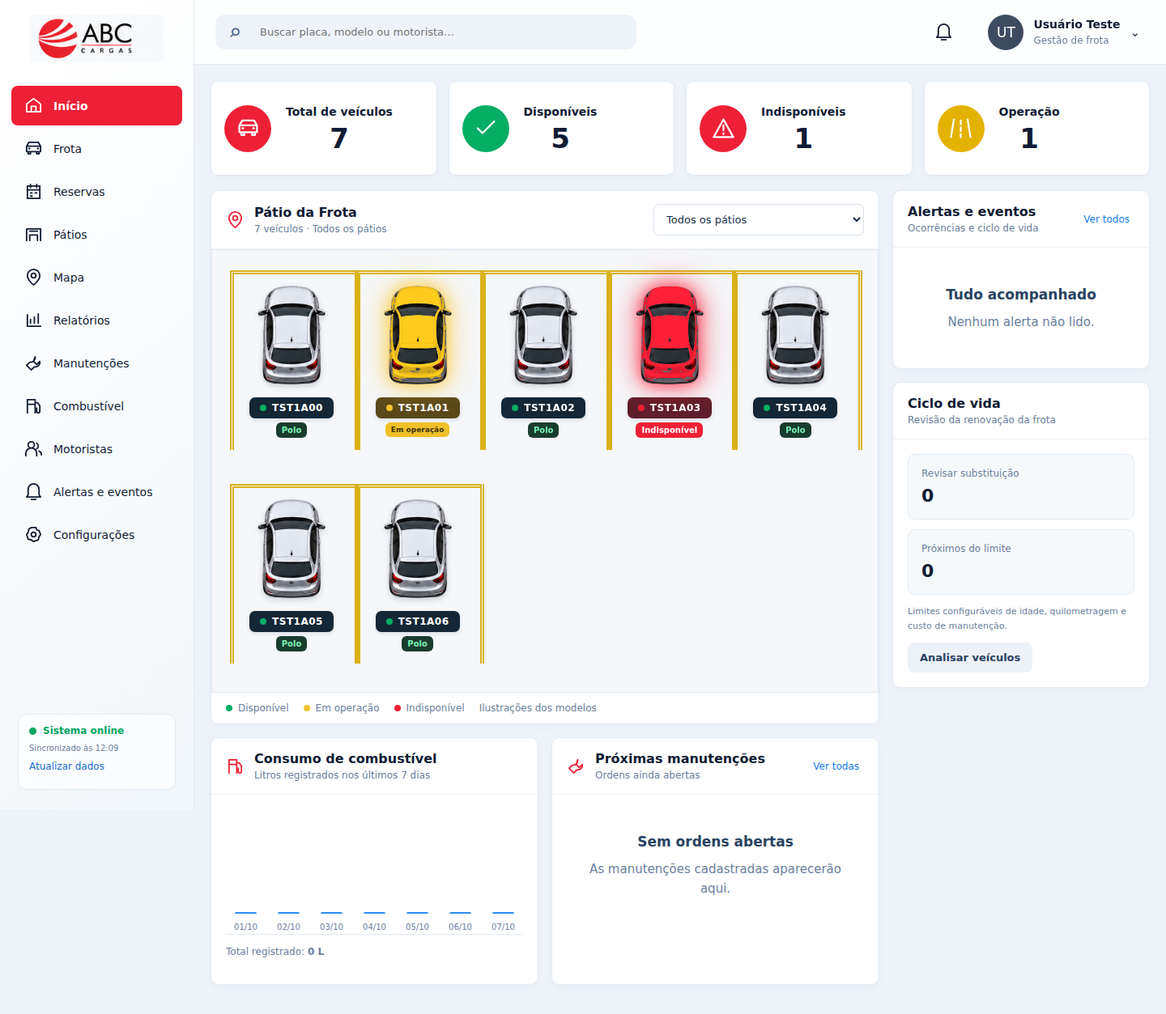
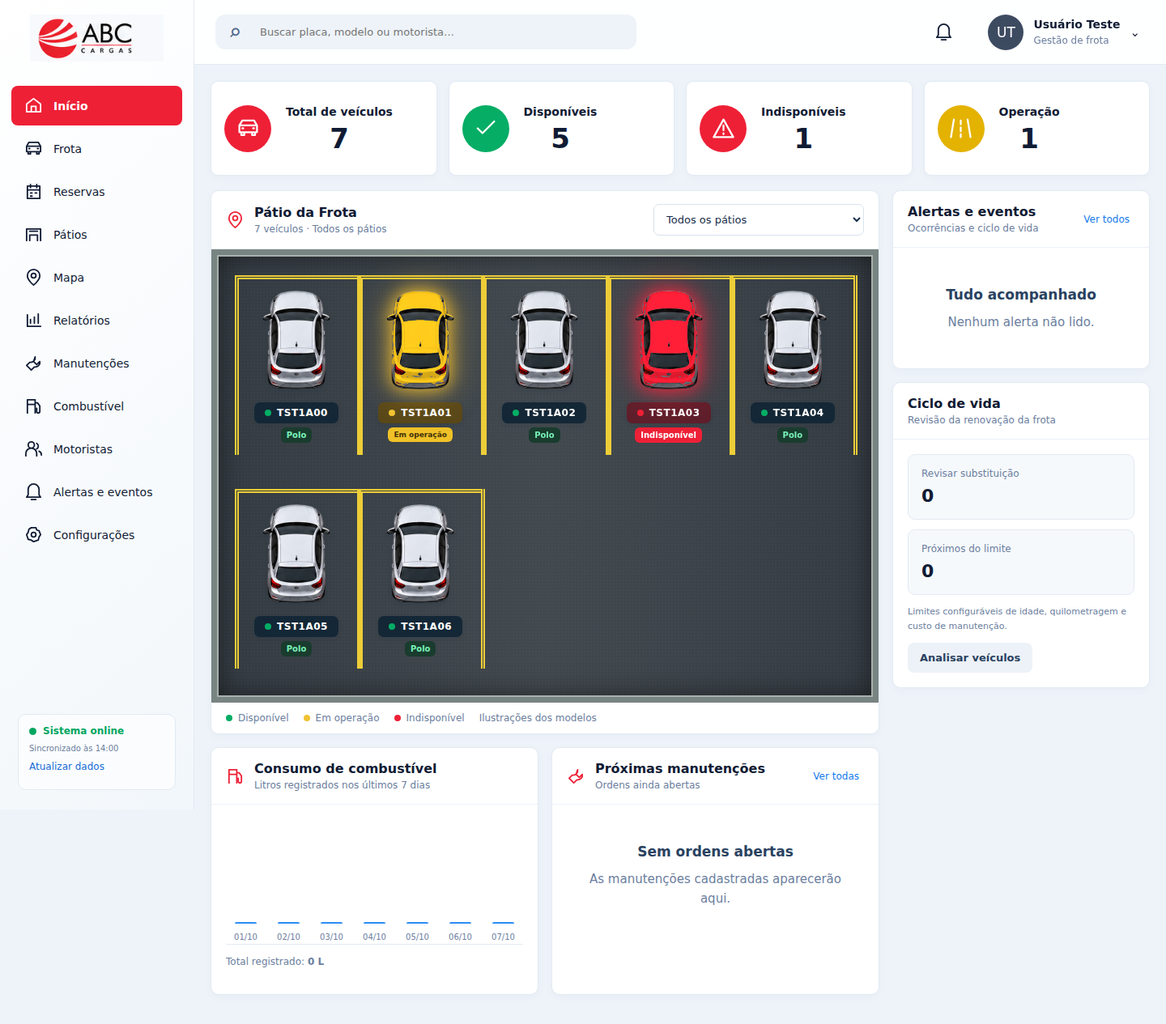
Patio_Dark_Alto_Contraste

diff --git a/abc-cargas-saas-real/public/app.js b/abc-cargas-saas-real/public/app.js
@@ -2,9 +2,11 @@ import {licenseState,licenseAlerts} from './license.js';
 import {createReservationUI} from './reservations.js';
 import {DEFAULT_POLICY,vehicleMetrics,fleetCounts,lifecycleAlerts} from './metrics.js';
 const $=id=>document.getElementById(id),esc=s=>String(s??'').replace(/[&<>"']/g,c=>({'&':'&amp;','<':'&lt;','>':'&gt;','"':'&quot;',"'":'&#39;'}[c]));
+let CONTRAST=false;
+function applyContrast(enabled){CONTRAST=!!enabled;document.documentElement.dataset.contrast=CONTRAST?'high':'normal';}
 let THEME='light';const systemTheme=window.matchMedia('(prefers-color-scheme: dark)');
 function applyTheme(mode){THEME=['light','dark','auto'].includes(mode)?mode:'light';document.documentElement.dataset.theme=THEME==='auto'?(systemTheme.matches?'dark':'light'):THEME;}
-function loadTheme(){let mode='light';try{mode=localStorage.getItem('abc-theme-'+USER.id)||'light';}catch{}applyTheme(mode);}
+function loadTheme(){let mode='light',contrast=false;try{mode=localStorage.getItem('abc-theme-'+USER.id)||'light';contrast=localStorage.getItem('abc-contrast-'+USER.id)==='high';}catch{}applyTheme(mode);applyContrast(contrast);}
 systemTheme.addEventListener('change',()=>{if(THEME==='auto')applyTheme('auto');});
 const clone=x=>structuredClone(x),uid=prefix=>prefix+'-'+crypto.randomUUID(),fmt=(n,d=0)=>Number(n||0).toLocaleString('pt-BR',{maximumFractionDigits:d}),money=n=>n===null||n===undefined?'Não informado':Number(n).toLocaleString('pt-BR',{style:'currency',currency:'BRL'}),day=s=>s?new Date(s+'T12:00:00').toLocaleDateString('pt-BR'):'Não informada',localDate=d=>[d.getFullYear(),String(d.getMonth()+1).padStart(2,'0'),String(d.getDate()).padStart(2,'0')].join('-'),today=()=>localDate(new Date()),plate=p=>String(p||'').replace(/[^a-z0-9]/gi,'').toUpperCase();
 let DB=null,USER=null,CATALOG=[],REVISION=0,SAVING=false,PAGE='dashboard',YARD='ALL',SEARCH='',MAP_VEHICLE='',VEHICLE_PHOTO=null,LAST_FOCUS=null,BOOT_BUSY=false,RESERVATIONS=[],WORKFLOW=[];
@@ -15,7 +17,7 @@ const canWrite=()=>USER&&['admin','manager'].includes(USER.role),allCatalog=()=>
 function toast(message){$('toast').textContent=message;$('toast').classList.add('show');clearTimeout(window.__toast);window.__toast=setTimeout(()=>$('toast').classList.remove('show'),4500)}
 function errorMessage(err){return err.message||'Não foi possível concluir a operação.'}
 async function api(path,options={}){if(location.protocol==='file:')throw new Error('Abra o sistema pelo endereço publicado no Render.');let response;try{response=await fetch(path,{credentials:'same-origin',headers:{'Content-Type':'application/json'},...options})}catch{throw new Error('Não foi possível conectar. Confira sua conexão e tente novamente.')}let data;try{data=await response.json()}catch{throw new Error('Resposta inválida do servidor. Atualize a publicação completa.')}if(!response.ok){if(response.status===401){showLogin(data.error);const err=new Error(data.error||'Sessão expirada.');err.auth=true;throw err}throw new Error(data.error||'Erro no servidor.')}return data}
-function showLogin(message=''){DB=null;USER=null;YARD='ALL';applyTheme('light');$('app').classList.add('hidden');$('authGate').classList.remove('hidden');$('authError').textContent=message;$('connectionMessage').textContent='Use o e-mail e a senha da sua conta.';closeModal()}
+function showLogin(message=''){DB=null;USER=null;YARD='ALL';applyTheme('light');applyContrast(false);$('app').classList.add('hidden');$('authGate').classList.remove('hidden');$('authError').textContent=message;$('connectionMessage').textContent='Use o e-mail e a senha da sua conta.';closeModal()}
 async function bootstrap(){if(BOOT_BUSY)return;BOOT_BUSY=true;try{const data=await api('/api/bootstrap');if(data.schemaVersion!==4)throw new Error('Atualize também os arquivos server e db no GitHub antes de usar esta versão.');DB=data.state;DB.settings.policy={...DEFAULT_POLICY,...DB.settings.policy};DB.settings.catalog||=[];const entering=!USER||USER.id!==data.user.id;USER=data.user;if(entering){YARD='ALL';loadTheme();}RESERVATIONS=data.reservations||[];WORKFLOW=data.vehicleWorkflow||[];CATALOG=data.catalog;REVISION=data.revision;if(YARD&&!['ALL','UNASSIGNED'].includes(YARD)&&!DB.yards.some(y=>y.id===YARD))YARD='ALL';$('authGate').classList.add('hidden');$('app').classList.remove('hidden');$('app').classList.toggle('readonly',USER.role==='viewer');$('userName').textContent=USER.name;$('avatar').textContent=USER.name.split(/\s+/).map(x=>x[0]).slice(0,2).join('').toUpperCase();syncTime();PAGE=location.hash.slice(1)||PAGE;if(!navItems.some(x=>x[0]===PAGE))PAGE='dashboard';render()}catch(e){if(!e.auth)showLogin(errorMessage(e))}finally{BOOT_BUSY=false}}
 function syncTime(){$('saveStatus').textContent='Sistema online';$('lastSync').textContent='Sincronizado às '+new Date().toLocaleTimeString('pt-BR',{hour:'2-digit',minute:'2-digit'})}
 async function commit(next){if(!canWrite()){toast('Seu perfil permite apenas consulta.');return false}if(SAVING){toast('Aguarde a gravação atual.');return false}SAVING=true;$('saveStatus').textContent='Salvando…';document.querySelectorAll('button[type=submit]').forEach(b=>b.disabled=true);try{const result=await api('/api/state/sync',{method:'POST',body:JSON.stringify({state:next,revision:REVISION})});DB=next;REVISION=result.revision;syncTime();render();return true}catch(e){$('saveStatus').textContent='Gravação não concluída';const target=document.querySelector('#modalBody #formError')||$('formError');if(target)target.textContent=errorMessage(e);toast(errorMessage(e));return false}finally{SAVING=false;document.querySelectorAll('button[type=submit]').forEach(b=>b.disabled=false)}}
@@ -40,7 +42,7 @@ function maintenancePage(){return pageTitle('Manutenções','Ordens, custos e pe
 function fuelPage(){return pageTitle('Abastecimentos','Histórico por placa e consumo entre tanques completos',canWrite()?btn('+ Novo abastecimento','new-fuel','','primary'):'')+`<section class="panel"><div class="tableWrap"><table class="table"><thead><tr><th>Veículo</th><th>Data</th><th>Litros</th><th>KM</th><th>Custo</th><th>Tanque completo</th><th>Motorista</th><th></th></tr></thead><tbody>${DB.fuel.map(f=>`<tr><td><strong>${esc(getV(f.vehicle)?.plate||'Veículo removido')}</strong></td><td>${day(f.date)}</td><td>${fmt(f.liters,2)} L</td><td>${fmt(f.km)}</td><td>${money(f.cost)}</td><td>${f.fullTank?'Sim':'Não informado'}</td><td>${esc(f.driver||'—')}</td><td>${canWrite()?btn('Editar','edit-fuel',f.id,'smallButton'):''}</td></tr>`).join('')}</tbody></table></div>${DB.fuel.length?'':empty('Nenhum abastecimento cadastrado','Informe a quilometragem e os litros para acompanhar o consumo.')}</section>`}
 function driversPage(){return pageTitle('Motoristas','Cadastros e vínculos operacionais',canWrite()?btn('+ Novo motorista','new-driver','','primary'):'')+`<div class="cardGrid">${DB.drivers.map(d=>`<article class="vehicleCard"><h3>${esc(d.name)}</h3><p>CNH: ${esc(d.licenseNumber||'Não informada')} · ${esc(d.license)}</p><p>Validade: ${day(d.licenseExpiry)}</p><p><span class="badge ${licenseState(d).blocked?'bad':'ok'}">${esc(licenseState(d).label)}</span></p><p>Status: ${esc(d.status)}</p><p>Veículos: ${esc(DB.vehicles.filter(v=>v.driver===d.name).map(v=>v.plate).join(', ')||'Nenhum vínculo')}</p><div class="actions">${canWrite()?btn('Editar','edit-driver',d.id)+btn(d.active===false?'Reativar':'Inativar','toggle-driver',d.id,'danger'):''}</div></article>`).join('')}</div>`}
 function notificationsPage(){return pageTitle('Alertas e eventos','Ocorrências registradas e recomendações de revisão',canWrite()?btn('Marcar eventos como lidos','read-all'):'')+`<section class="panel"><div class="tableWrap"><table class="table"><thead><tr><th>Placa</th><th>Ocorrência</th><th>Data</th><th>Leitura</th><th></th></tr></thead><tbody>${alerts().map(n=>`<tr><td>${esc(n.driverId?DB.drivers.find(d=>d.id===n.driverId)?.name:getV(n.vehicle)?.plate||'Frota')}</td><td><strong>${esc(n.title)}</strong><br>${esc(n.text)}</td><td>${day(n.date)}</td><td><span class="badge ${n.read?'muted':n.level}">${n.read?'Lido':'Não lido'}</span></td><td>${canWrite()&&!n.read?n.persistent?btn('Revisar motorista','edit-driver',n.driverId,'smallButton'):n.id.startsWith('RES-')?btn('Abrir reserva','res-detail',n.id.slice(4),'smallButton'):btn('Marcar lido','read-alert',n.id,'smallButton'):''}</td></tr>`).join('')}</tbody></table></div></section>`}
-function settingsPage(){const p=DB.settings.policy;return pageTitle('Configurações','Aparência, políticas da empresa, catálogo e backup')+`<section class="panel"><header class="panelHeader"><h2>Aparência</h2></header><div class="panelBody"><label>Tema do sistema<select id="themeSelect">${[['light','Claro'],['dark','Escuro'],['auto','Automático (tema do dispositivo)']].map(([id,label])=>`<option value="${id}" ${THEME===id?'selected':''}>${label}</option>`).join('')}</select></label><p class="footerNote">Preferência desta conta neste navegador. O tema muda as cores e mantém a organização das telas.</p></div></section>`+`${canWrite()?'<section class="panel"><div class="panelBody"><h2>Contas e permissões</h2><p class="hint">Cada motorista utiliza sua própria conta. Apenas o responsável pode aprovar reservas e devoluções.</p>'+btn('Gerenciar contas','res-team')+'</div></section>':''}<section class="panel"><header class="panelHeader"><h2>Empresa e política de renovação</h2></header><div class="panelBody"><form id="policyForm"><div class="formGrid">${field('Empresa','company',DB.settings.company)}${field('Idade limite (meses)','maxAgeMonths',p.maxAgeMonths,'number',{min:1,max:360})}${field('Quilometragem limite','maxKm',p.maxKm,'number',{min:1})}${field('Manutenção / valor base (%)','maxMaintenancePercent',p.maxMaintenancePercent,'number',{min:1,max:100})}${field('Alerta antecipado (% do limite)','warningPercent',p.warningPercent,'number',{min:1,max:99})}</div><p class="footerNote">Valores iniciais demonstrativos. Defina os limites de acordo com a política da empresa. O custo de manutenção considera serviços concluídos nos últimos 12 meses sobre o valor de mercado informado, ou sobre a estimativa linear quando o mercado não estiver informado.</p><div class="formError" id="formError"></div>${canWrite()?'<button class="primary" type="submit">Salvar política</button>':''}</form></div></section><section class="panel"><header class="panelHeader"><h2>Catálogo de veículos leves</h2>${canWrite()?btn('+ Adicionar modelo','new-catalog','','smallButton'):''}</header><div class="panelBody"><p class="mutedText">${allCatalog().length} modelos em ${new Set(allCatalog().map(x=>x.brand)).size} montadoras. Catálogo inicial de modelos do mercado brasileiro; outras opções podem ser cadastradas.</p><div class="tableWrap"><table class="table"><thead><tr><th>Montadora</th><th>Modelo</th><th>Categoria</th></tr></thead><tbody>${allCatalog().map(c=>`<tr><td>${esc(c.brand)}</td><td>${esc(c.model)}</td><td>${esc(c.bodyType)}</td></tr>`).join('')}</tbody></table></div></div></section><section class="panel"><header class="panelHeader"><h2>Backup dos cadastros</h2></header><div class="panelBody"><div class="actions">${btn('Exportar backup JSON','export-data')}${canWrite()?btn('Importar backup','import-data'):''}</div><p class="footerNote">O backup inclui pátios, veículos, motoristas, manutenções, combustível e configurações. Reservas e fotos são preservadas separadamente; exporte os dossiês em Reservas. A importação substitui os registros desta empresa após confirmação.</p><input id="importFile" type="file" accept="application/json" class="hidden"></div></section>`}
+function settingsPage(){const p=DB.settings.policy;return pageTitle('Configurações','Aparência, políticas da empresa, catálogo e backup')+`<section class="panel"><header class="panelHeader"><h2>Aparência</h2></header><div class="panelBody"><label>Tema do sistema<select id="themeSelect">${[['light','Claro'],['dark','Escuro'],['auto','Automático (tema do dispositivo)']].map(([id,label])=>`<option value="${id}" ${THEME===id?'selected':''}>${label}</option>`).join('')}</select></label><label class="contrastOption"><input id="contrastSelect" type="checkbox" ${CONTRAST?'checked':''}> Alto contraste</label><p class="footerNote">Reforça textos, contornos e foco do teclado em qualquer tema. Preferências desta conta neste navegador. O pátio mantém sempre o fundo escuro.</p></div></section>`+`${canWrite()?'<section class="panel"><div class="panelBody"><h2>Contas e permissões</h2><p class="hint">Cada motorista utiliza sua própria conta. Apenas o responsável pode aprovar reservas e devoluções.</p>'+btn('Gerenciar contas','res-team')+'</div></section>':''}<section class="panel"><header class="panelHeader"><h2>Empresa e política de renovação</h2></header><div class="panelBody"><form id="policyForm"><div class="formGrid">${field('Empresa','company',DB.settings.company)}${field('Idade limite (meses)','maxAgeMonths',p.maxAgeMonths,'number',{min:1,max:360})}${field('Quilometragem limite','maxKm',p.maxKm,'number',{min:1})}${field('Manutenção / valor base (%)','maxMaintenancePercent',p.maxMaintenancePercent,'number',{min:1,max:100})}${field('Alerta antecipado (% do limite)','warningPercent',p.warningPercent,'number',{min:1,max:99})}</div><p class="footerNote">Valores iniciais demonstrativos. Defina os limites de acordo com a política da empresa. O custo de manutenção considera serviços concluídos nos últimos 12 meses sobre o valor de mercado informado, ou sobre a estimativa linear quando o mercado não estiver informado.</p><div class="formError" id="formError"></div>${canWrite()?'<button class="primary" type="submit">Salvar política</button>':''}</form></div></section><section class="panel"><header class="panelHeader"><h2>Catálogo de veículos leves</h2>${canWrite()?btn('+ Adicionar modelo','new-catalog','','smallButton'):''}</header><div class="panelBody"><p class="mutedText">${allCatalog().length} modelos em ${new Set(allCatalog().map(x=>x.brand)).size} montadoras. Catálogo inicial de modelos do mercado brasileiro; outras opções podem ser cadastradas.</p><div class="tableWrap"><table class="table"><thead><tr><th>Montadora</th><th>Modelo</th><th>Categoria</th></tr></thead><tbody>${allCatalog().map(c=>`<tr><td>${esc(c.brand)}</td><td>${esc(c.model)}</td><td>${esc(c.bodyType)}</td></tr>`).join('')}</tbody></table></div></div></section><section class="panel"><header class="panelHeader"><h2>Backup dos cadastros</h2></header><div class="panelBody"><div class="actions">${btn('Exportar backup JSON','export-data')}${canWrite()?btn('Importar backup','import-data'):''}</div><p class="footerNote">O backup inclui pátios, veículos, motoristas, manutenções, combustível e configurações. Reservas e fotos são preservadas separadamente; exporte os dossiês em Reservas. A importação substitui os registros desta empresa após confirmação.</p><input id="importFile" type="file" accept="application/json" class="hidden"></div></section>`}
 function field(label,name,value='',type='text',attrs={}){return `<label>${label}<input name="${name}" type="${type}" value="${esc(value??'')}" ${Object.entries(attrs).map(([k,v])=>`${k}="${esc(v)}"`).join(' ')}></label>`}
 function selectField(label,name,options,value,placeholder=''){return `<label>${label}<select name="${name}" ${placeholder?'required':''}>${placeholder?`<option value="">${placeholder}</option>`:''}${options.map(o=>{const key=typeof o==='string'?o:o.value,text=typeof o==='string'?o:o.label;return `<option value="${esc(key)}" ${key===value?'selected':''}>${esc(text)}</option>`}).join('')}</select></label>`}
 function formFooter(){return `<div id="formError" class="formError" role="alert"></div><div class="formFooter"><button class="secondary" type="button" data-action="close">Cancelar</button><button class="primary" type="submit">Salvar</button></div>`}
@@ -69,7 +71,7 @@ document.addEventListener('click',e=>{const node=e.target.closest('button[data-a
 $('modalBackdrop').addEventListener('click',e=>{if(e.target===$('modalBackdrop')&&!ReservationUI.busy())closeModal()});document.addEventListener('keydown',e=>{if(e.key==='Escape'&&!ReservationUI.busy())closeModal();if(e.key==='Tab'&&!$('modalBackdrop').classList.contains('hidden')){const nodes=[...$('modalBackdrop').querySelectorAll('button,input,select,textarea,a')].filter(x=>!x.disabled&&x.offsetParent);if(!nodes.length)return;const first=nodes[0],last=nodes.at(-1);if(e.shiftKey&&document.activeElement===first){e.preventDefault();last.focus()}else if(!e.shiftKey&&document.activeElement===last){e.preventDefault();first.focus()}}});
 window.addEventListener('hashchange',()=>{if(DB){const page=location.hash.slice(1);if(navItems.some(x=>x[0]===page)){PAGE=page;render()}}});
 document.addEventListener('input',e=>{if(['globalSearch','fleetSearch'].includes(e.target.id)){SEARCH=e.target.value;PAGE='fleet';render();const input=e.target.id==='fleetSearch'?$('fleetSearch'):$('globalSearch');input?.focus();input?.setSelectionRange(SEARCH.length,SEARCH.length)}});
-document.addEventListener('change',async e=>{const el=e.target;if(el.id==='themeSelect'){applyTheme(el.value);try{localStorage.setItem('abc-theme-'+USER.id,THEME);toast('Tema aplicado e salvo neste navegador.');}catch{toast('Tema aplicado. Não foi possível salvar a preferência neste navegador.');}}if(el.id==='yardSelect'){YARD=el.value;render()}if(el.id==='fleetStatusFilter'){FILTER_STATUS=el.value;render()}if(el.id==='mapVehicle'){MAP_VEHICLE=el.value;render()}if(el.name==='brand'&&el.form?.id==='vehicleForm'){const model=el.form.elements.model;model.innerHTML='<option value="">Selecione o modelo</option>'+allCatalog().filter(c=>c.brand===el.value).map(c=>`<option>${esc(c.model)}</option>`).join('')}if(el.id==='vehiclePhoto'&&el.files[0]){try{const file=el.files[0];if(!['image/png','image/jpeg','image/webp'].includes(file.type))throw new Error('Escolha uma imagem PNG, JPEG ou WebP.');if(file.size>8000000)throw new Error('Escolha uma foto de até 8 MB.');const url=URL.createObjectURL(file),image=await loadImage(url);URL.revokeObjectURL(url);const c=document.createElement('canvas'),s=Math.min(1,640/image.width,640/image.height);c.width=Math.round(image.width*s);c.height=Math.round(image.height*s);c.getContext('2d').drawImage(image,0,0,c.width,c.height);const photo=c.toDataURL(file.type==='image/png'?'image/png':'image/jpeg',.8);if(photo.length>400000)throw new Error('Imagem muito grande. Escolha uma foto menor.');VEHICLE_PHOTO=photo;$('photoPreview').innerHTML='<img class="photoPreview" alt="Foto selecionada" src="'+VEHICLE_PHOTO+'">'}catch(err){toast(errorMessage(err))}}if(el.id==='importFile'&&el.files[0]){try{const text=await el.files[0].text();if(text.length>12000000)throw new Error('Backup maior que 12 MB.');const next=JSON.parse(text);if(next.schemaVersion!==2||!Array.isArray(next.yards))throw new Error('Use um backup exportado pela versão 2. Backups antigos precisam de migração.');delete next.schemaVersion;if(!confirm('A importação substituirá os dados desta empresa. Você já exportou um backup dos dados atuais?'))return;if(await commit(next))toast('Backup importado.')}catch(err){toast(errorMessage(err))}}});
+document.addEventListener('change',async e=>{const el=e.target;if(el.id==='contrastSelect'){applyContrast(el.checked);try{localStorage.setItem('abc-contrast-'+USER.id,CONTRAST?'high':'normal');toast('Preferência de contraste salva neste navegador.');}catch{toast('Contraste aplicado. Não foi possível salvar a preferência.');}}if(el.id==='themeSelect'){applyTheme(el.value);try{localStorage.setItem('abc-theme-'+USER.id,THEME);toast('Tema aplicado e salvo neste navegador.');}catch{toast('Tema aplicado. Não foi possível salvar a preferência neste navegador.');}}if(el.id==='yardSelect'){YARD=el.value;render()}if(el.id==='fleetStatusFilter'){FILTER_STATUS=el.value;render()}if(el.id==='mapVehicle'){MAP_VEHICLE=el.value;render()}if(el.name==='brand'&&el.form?.id==='vehicleForm'){const model=el.form.elements.model;model.innerHTML='<option value="">Selecione o modelo</option>'+allCatalog().filter(c=>c.brand===el.value).map(c=>`<option>${esc(c.model)}</option>`).join('')}if(el.id==='vehiclePhoto'&&el.files[0]){try{const file=el.files[0];if(!['image/png','image/jpeg','image/webp'].includes(file.type))throw new Error('Escolha uma imagem PNG, JPEG ou WebP.');if(file.size>8000000)throw new Error('Escolha uma foto de até 8 MB.');const url=URL.createObjectURL(file),image=await loadImage(url);URL.revokeObjectURL(url);const c=document.createElement('canvas'),s=Math.min(1,640/image.width,640/image.height);c.width=Math.round(image.width*s);c.height=Math.round(image.height*s);c.getContext('2d').drawImage(image,0,0,c.width,c.height);const photo=c.toDataURL(file.type==='image/png'?'image/png':'image/jpeg',.8);if(photo.length>400000)throw new Error('Imagem muito grande. Escolha uma foto menor.');VEHICLE_PHOTO=photo;$('photoPreview').innerHTML='<img class="photoPreview" alt="Foto selecionada" src="'+VEHICLE_PHOTO+'">'}catch(err){toast(errorMessage(err))}}if(el.id==='importFile'&&el.files[0]){try{const text=await el.files[0].text();if(text.length>12000000)throw new Error('Backup maior que 12 MB.');const next=JSON.parse(text);if(next.schemaVersion!==2||!Array.isArray(next.yards))throw new Error('Use um backup exportado pela versão 2. Backups antigos precisam de migração.');delete next.schemaVersion;if(!confirm('A importação substituirá os dados desta empresa. Você já exportou um backup dos dados atuais?'))return;if(await commit(next))toast('Backup importado.')}catch(err){toast(errorMessage(err))}}});
 const ReservationUI=createReservationUI({user:()=>USER,db:()=>DB,reservations:()=>RESERVATIONS,api,refresh:bootstrap,modal,close:closeModal,toast,download});
 document.addEventListener('submit',async e=>{const form=e.target;if(!form.id)return;e.preventDefault();const data=Object.fromEntries(new FormData(form));const nullable=k=>data[k]===''?null:Number(data[k]),id=form.dataset.id;try{if(form.id==='loginForm'){$('loginButton').disabled=true;$('authError').textContent='';try{await api('/api/auth/login',{method:'POST',body:JSON.stringify(data)});await bootstrap()}catch(err){$('authError').textContent=errorMessage(err)}finally{$('loginButton').disabled=false}return}if(!canWrite())return;const next=clone(DB);let item,key;
  if(form.id==='vehicleForm'){const old=id?getV(id):{},catalog=allCatalog().find(c=>c.brand===data.brand&&c.model===data.model);if(!catalog)throw new Error('Selecione uma montadora e um modelo.');const p=plate(data.plate);if(!/^[A-Z]{3}[0-9][A-Z0-9][0-9]{2}$/.test(p))throw new Error('Informe uma placa brasileira válida.');if(DB.vehicles.some(v=>v.id!==id&&plate(v.plate)===p))throw new Error('Esta placa já está cadastrada.');item={...old,active:old?.active!==false,id:id||uid('V'),plate:p,brand:data.brand,model:data.model,bodyType:catalog.bodyType,year:nullable('year'),color:data.color,status:data.status,yardId:data.yardId,km:Number(data.km),fuel:Number(data.fuel),driver:data.driver,nextMaintenance:data.nextMaintenance||null,trackerId:data.trackerId.trim(),purchaseDate:data.purchaseDate||null,purchaseKm:nullable('purchaseKm'),purchaseValue:nullable('purchaseValue'),currentValue:nullable('currentValue'),residualValue:nullable('residualValue'),lifecycleMonths:nullable('lifecycleMonths'),replacementKm:nullable('replacementKm')};if(VEHICLE_PHOTO)item.image=VEHICLE_PHOTO;else delete item.image;key='vehicles';}

diff --git a/abc-cargas-saas-real/public/styles.css b/abc-cargas-saas-real/public/styles.css
@@ -48,3 +48,36 @@
 [data-theme=dark] .table tbody tr:nth-child(even),[data-theme=dark] .table tbody tr:nth-child(even) td{background:#223248}
 [data-theme=dark] .muted,[data-theme=dark] .smallButton{color:#c4d7ee}
 [data-theme=dark] .smallButton{background:#31445c}
+/* O piso do pátio mantém a aparência original em todos os temas. */
+.yardScene{background-color:#3c4349;background-image:radial-gradient(#ffffff0b .6px,transparent .8px),linear-gradient(90deg,#272f3760,#ffffff08,#272f3760);background-size:4px 4px,100% 100%;border:7px solid #788482;box-shadow:inset 0 0 0 2px #a8b1ac,inset 0 0 35px #0008;color:#eaf0f7;--parking-line:#edcd38}
+.yardScene .empty,.yardScene .empty strong,.yardScene .empty h3{color:#eaf0f7}
+.contrastOption{display:flex;align-items:center;gap:10px;margin-top:20px;cursor:pointer}
+.contrastOption input{width:22px;height:22px;accent-color:var(--red);flex-shrink:0}
+:root[data-contrast=high]{color:#000;background:#fff;--muted:#333;--border:#222;--red:#b30a22;--green:#006b3e;--blue:#004bb5;--shadow:none;--hc-surface:#fff;--hc-alt:#f0f0f0;--hc-ink:#000;--hc-link:#004bb5}
+:root[data-contrast=high][data-theme=dark]{color:#fff;background:#000;--muted:#f0f0f0;--border:#fff;--hc-surface:#000;--hc-alt:#161616;--hc-ink:#fff;--hc-link:#8ec5ff}
+[data-contrast=high] body{background:var(--hc-surface);color:var(--hc-ink)}
+[data-contrast=high] .sidebar,[data-contrast=high] .header,[data-contrast=high] .panel,[data-contrast=high] .kpi,[data-contrast=high] .vehicleCard,[data-contrast=high] .yardCard,[data-contrast=high] .modal,[data-contrast=high] .authCard{background:var(--hc-surface);color:var(--hc-ink);border-color:var(--border);box-shadow:none}
+[data-contrast=high] .panel,[data-contrast=high] .kpi,[data-contrast=high] .vehicleCard,[data-contrast=high] .yardCard{border-width:2px}
+[data-contrast=high] .panelHeader,[data-contrast=high] .event,[data-contrast=high] .modal header,[data-contrast=high] .table td,[data-contrast=high] .table th{border-color:var(--border)}
+[data-contrast=high] input,[data-contrast=high] select,[data-contrast=high] textarea{background:var(--hc-surface);color:var(--hc-ink);border:2px solid var(--border)}
+[data-contrast=high] input::placeholder,[data-contrast=high] textarea::placeholder{color:var(--muted);opacity:1}
+[data-contrast=high] .sideBottom,[data-contrast=high] .metricBox,[data-contrast=high] .searchWrap,[data-contrast=high] .secondary,[data-contrast=high] .smallButton,[data-contrast=high] .table th{background:var(--hc-alt);color:var(--hc-ink);border:1px solid var(--border)}
+[data-contrast=high] .table tbody tr,[data-contrast=high] .table tbody td{background:var(--hc-surface);color:var(--hc-ink)}
+[data-contrast=high] .table tbody tr:nth-child(even),[data-contrast=high] .table tbody tr:nth-child(even) td{background:var(--hc-alt);color:var(--hc-ink)}
+[data-contrast=high] label,[data-contrast=high] .hint,[data-contrast=high] .footerNote,[data-contrast=high] .mutedText,[data-contrast=high] .empty,[data-contrast=high] .empty strong,[data-contrast=high] .empty h3{color:var(--hc-ink)}
+[data-contrast=high] a,[data-contrast=high] .linkButton,[data-contrast=high] .textButton{color:var(--hc-link);text-decoration:underline}
+[data-contrast=high] .primary,[data-contrast=high] nav button.active,[data-contrast=high] .captureButton{background:#b30a22;color:#fff}
+[data-contrast=high] .kpi.green .kpiIcon{background:#006b3e;color:#fff}
+[data-contrast=high] .kpi.yellow .kpiIcon{background:#f8d124;color:#000}
+[data-contrast=high] .online{color:var(--hc-ink)}
+[data-contrast=high] .vehiclePlate{background:#000;color:#fff;border:1px solid #fff}
+[data-contrast=high] .vehicleState{background:#fff;color:#000;border:1px solid #000}
+[data-contrast=high] .bay.operation .vehicleState{background:#ffdb00;color:#000;border-color:#ffdb00}
+[data-contrast=high] .bay.bad .vehicleState{background:#b30a22;color:#fff;border-color:#fff}
+[data-contrast=high] .yardScene{--parking-line:#ffdb00;border-color:#cbd3dc}
+[data-contrast=high] .yardScene .empty,[data-contrast=high] .yardScene .empty strong,[data-contrast=high] .yardScene .empty h3{color:#fff}
+[data-contrast=high] :focus-visible{outline:3px solid var(--hc-link);outline-offset:4px}
+[data-contrast=high] .yardScene :focus-visible{outline-color:#fff}
+[data-contrast=high] .inspectionFooter{background:var(--hc-surface)}
+.panelBody .contrastOption{display:flex;flex-direction:row;align-items:center;justify-content:flex-start;gap:10px}
+[data-contrast=high] #toast{background:var(--hc-surface);color:var(--hc-ink);border:2px solid var(--border);box-shadow:none}

diff --git a/abc-cargas-saas-real/ATUALIZAR_CONTRASTE.md b/abc-cargas-saas-real/ATUALIZAR_CONTRASTE.md
@@ -1,0 +1,13 @@
+# Pátio sempre escuro e alto contraste
+
+1. Extraia este ZIP e envie todo o conteúdo DENTRO de abc-cargas-saas-real no GitHub.
+2. Publique o último commit no serviço atual do Render e aguarde Live. Mantenha banco, variáveis e comandos atuais.
+3. Abra o sistema e pressione Ctrl+F5.
+4. Acesse Configurações > Aparência e marque Alto contraste, se desejar. Pode usar Claro, Escuro ou Automático independentemente.
+
+Pátio: fundo/textura/moldura originais escuros em todos os temas, mantendo as novas linhas amarelas duplas, veículos centralizados e Todos os pátios no próximo acesso.
+Alto contraste: textos mais fortes, superfícies claras ou pretas conforme tema, bordas reforçadas, campos e foco de teclado visíveis, placas e identificação de status mais legíveis. A preferência é individual por conta neste navegador, sem sincronização entre aparelhos. Padrão desligado. Não representa certificação de conformidade de acessibilidade de toda a aplicação.
+
+Pacote completo, incluindo backup e restauração anteriores. Não executa limpeza ou restauração automaticamente e não altera cadastros ao publicar.
+
+Validação: 13 testes existentes aprovados. Navegador isolado com dados de teste: fundo escuro mantido ao trocar de tema, contraste persistido após recarregar, modo automático, filtros e visualização desktop/celular sem erros ou overflow horizontal. Prévia das telas no ZIP contém dados sintéticos. Conferência no Render deverá ocorrer após publicar.
